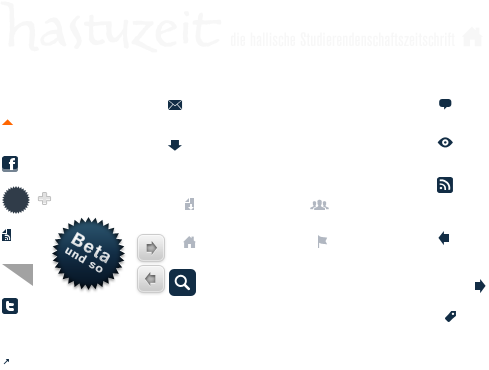
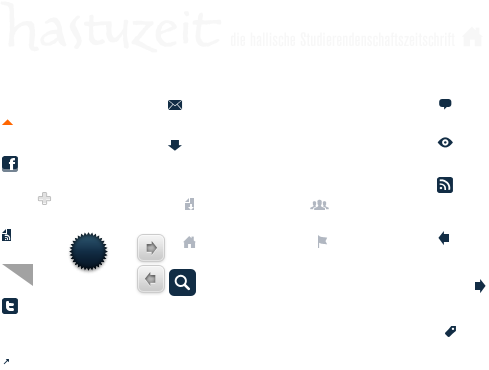
awesome new heftbadge
git-svn-id: https://krema.svn.beanstalkapp.com/hastuzeit@263 3445ca58-e459-48c6-80b6-aacbbe7ab71b

Changed region(s): [[0.092, 0.5946, 0.2761, 0.8027], [0.0, 0.5054, 0.0613, 0.5946], [0.8896, 0.8324, 0.9509, 0.9216]]

diff --git a/wphastuzeit/trunk/style/css/layout.css b/wphastuzeit/trunk/style/css/layout.css
@@ -616,150 +616,19 @@ input[type=submit] {
 }
 
 .heftbadge {
-	
-}
-
-/* @end */
-
-/* @group Admin-Menu */
-
-a.post-edit-link, 
-a#login-link.loggedin,
-a#profile-edit-link {
-	padding-right: 10px;
-	padding-left: 25px;
-	color: #fff;
-	text-shadow: none;
-	background: #00cf00 url(../images/Admin-Icons.png) no-repeat 0 -238px;
-	border: 1px solid #005f03;
-}
-
-a.post-edit-link:hover, 
-a#login-link.loggedin:hover,
-a#profile-edit-link:hover {
-	background-color: #ff6600;
-	color: #122d45;
-}
-
-#admin-box {
-	position: relative;
-	font-size: 1.1em;
+	background: transparent url(../images/hastuzeit-master.png) no-repeat -67px -231px !important;
+	width: 17px;
+	height: 35px;
 	display: block;
-	right: -3px;
-}
-
-#admin-box a {
-	display: block;
-	padding-left: 25px;
-	background: url(../images/Admin-Icons.png) no-repeat;
-	padding-top: 3px;
-	padding-bottom: 3px;
-	border-top: 1px solid #e5e5e5;
-}
-
-#admin-box a:hover {
-	background-color: #e0e2e5;
-}
-
-#admin-box a:active,
-a.post-edit-link:active, 
-a#login-link.loggedin:active,
-a#profile-edit-link:active {
-	background-color: #122d45;
-	color: #fff;
-	text-shadow: none;
-}
-
-#admin-box li {
-	margin: 0;
-	width: 212px;
-}
-
-#admin-box li#hello {
-	font-size: 1.2em;
-	border-bottom: 3px double #ff6600;
-	margin: 0;
-	line-height: 1.2em;
-	padding-bottom: 5px;
-}
-
-#admin-box li#hello img {
-	top: -3px;
-	left: 0;
-	position: relative;
-	border: 1px solid #787878;
-	float: left;
-	margin-right: 5px;
-}
-
-#admin-box #hello-dave {
-	font-size: 0.95em;
-	color: #b1b7c1;
-	line-height: 1.3em;
-	border-bottom: 1px solid #fff;
-	padding: 7px 0 5px;
-	margin: 0;
-}
-
-#admin-box .dashboard a {
-	background-position: -4px -2px;
-}
-
-#admin-box .profile a {
-	background-position: -4px -265px;
-	border-bottom: 1px solid #fff;
-	border-top: none;
-}
-
-#admin-box .new-post a {
-	background-position: -4px -38px;
-}
-
-#admin-box .new-page a {
-	background-position: -4px -75px;
-}
-
-#admin-box .articles a {
-	background-position: -4px -299px;
-	border-bottom: 1px solid #fff;
-	border-top: none;
-}
-
-#admin-box .articles.overview a {
-	border-top: 1px solid #e5e5e5;
-}
-
-#admin-box .new-user a {
-	background-position: -4px -112px;
-	border-top: none;
-	border-bottom: 1px solid #fff;
-}
-
-#admin-box .sidebar-widgets a {
-	background-position: -4px -177px;
-}
-
-#admin-box .logout a {
-	background-position: -4px -205px;
-	border-top: 1px solid #ff6600;
-}
-
-#pinnwand a.post-edit-link {
-	text-indent: -99999px;
-	width: 20px;
-	height: 16px;
-	padding: 0;
+	margin: 0 !important;
 	position: absolute;
-	right: -20px;
-	top: 0;
-	background-position: -2px -238px;
-}
-
-a#login-link.loggedin {
-	padding-left: 10px;
-	background-image: url(../images/button-overlay.png);
-	background-repeat:  repeat-x;
-	background-position: left top;
+	left: -45px;
+	top: -7px;
+	border: none !important;
+	padding-right: 10px !important;
+	padding-left: 14px !important;
+	padding-top: 8px !important;
+	-moz-transform: rotate(-10deg);
 }
 
 /* @end */
@@ -1418,6 +1287,149 @@ img.aligncenter, .wp-caption.aligncenter {
 .wp-smiley {
 	display: inline;
 	border: none;
+}
+
+/* @end */
+
+/* @group Admin-Menu */
+
+a.post-edit-link, 
+a#login-link.loggedin,
+a#profile-edit-link {
+	padding-right: 10px;
+	padding-left: 25px;
+	color: #fff;
+	text-shadow: none;
+	background: #00cf00 url(../images/Admin-Icons.png) no-repeat 0 -238px;
+	border: 1px solid #005f03;
+}
+
+a.post-edit-link:hover, 
+a#login-link.loggedin:hover,
+a#profile-edit-link:hover {
+	background-color: #ff6600;
+	color: #122d45;
+}
+
+#admin-box {
+	position: relative;
+	font-size: 1.1em;
+	display: block;
+	right: -3px;
+}
+
+#admin-box a {
+	display: block;
+	padding-left: 25px;
+	background: url(../images/Admin-Icons.png) no-repeat;
+	padding-top: 3px;
+	padding-bottom: 3px;
+	border-top: 1px solid #e5e5e5;
+}
+
+#admin-box a:hover {
+	background-color: #e0e2e5;
+}
+
+#admin-box a:active,
+a.post-edit-link:active, 
+a#login-link.loggedin:active,
+a#profile-edit-link:active {
+	background-color: #122d45;
+	color: #fff;
+	text-shadow: none;
+}
+
+#admin-box li {
+	margin: 0;
+	width: 212px;
+}
+
+#admin-box li#hello {
+	font-size: 1.2em;
+	border-bottom: 3px double #ff6600;
+	margin: 0;
+	line-height: 1.2em;
+	padding-bottom: 5px;
+}
+
+#admin-box li#hello img {
+	top: -3px;
+	left: 0;
+	position: relative;
+	border: 1px solid #787878;
+	float: left;
+	margin-right: 5px;
+}
+
+#admin-box #hello-dave {
+	font-size: 0.95em;
+	color: #b1b7c1;
+	line-height: 1.3em;
+	border-bottom: 1px solid #fff;
+	padding: 7px 0 5px;
+	margin: 0;
+}
+
+#admin-box .dashboard a {
+	background-position: -4px -2px;
+}
+
+#admin-box .profile a {
+	background-position: -4px -265px;
+	border-bottom: 1px solid #fff;
+	border-top: none;
+}
+
+#admin-box .new-post a {
+	background-position: -4px -38px;
+}
+
+#admin-box .new-page a {
+	background-position: -4px -75px;
+}
+
+#admin-box .articles a {
+	background-position: -4px -299px;
+	border-bottom: 1px solid #fff;
+	border-top: none;
+}
+
+#admin-box .articles.overview a {
+	border-top: 1px solid #e5e5e5;
+}
+
+#admin-box .new-user a {
+	background-position: -4px -112px;
+	border-top: none;
+	border-bottom: 1px solid #fff;
+}
+
+#admin-box .sidebar-widgets a {
+	background-position: -4px -177px;
+}
+
+#admin-box .logout a {
+	background-position: -4px -205px;
+	border-top: 1px solid #ff6600;
+}
+
+#pinnwand a.post-edit-link {
+	text-indent: -99999px;
+	width: 20px;
+	height: 16px;
+	padding: 0;
+	position: absolute;
+	right: -20px;
+	top: 0;
+	background-position: -2px -238px;
+}
+
+a#login-link.loggedin {
+	padding-left: 10px;
+	background-image: url(../images/button-overlay.png);
+	background-repeat:  repeat-x;
+	background-position: left top;
 }
 
 /* @end */

diff --git a/wphastuzeit/trunk/style/css/typography.css b/wphastuzeit/trunk/style/css/typography.css
@@ -332,6 +332,25 @@ blockquote {
 	line-height: 1.3em;
 }
 
+.heftbadge {
+	line-height: 1em;
+	color: #fff !important;
+	text-shadow: #444 0 1px 0 !important;
+	opacity: 0.8;
+	-moz-opacity: 0.8;
+	-webkit-opacity: 0.8;
+}
+
+.heftbadge:hover {
+	color: #ff6600 !important;
+}
+
+.meta:hover .heftbadge  {
+	opacity: 1;
+	-moz-opacity: 1;
+	-webkit-opacity: 1;
+}
+
 /* @end */
 
 /* @group Featured */
